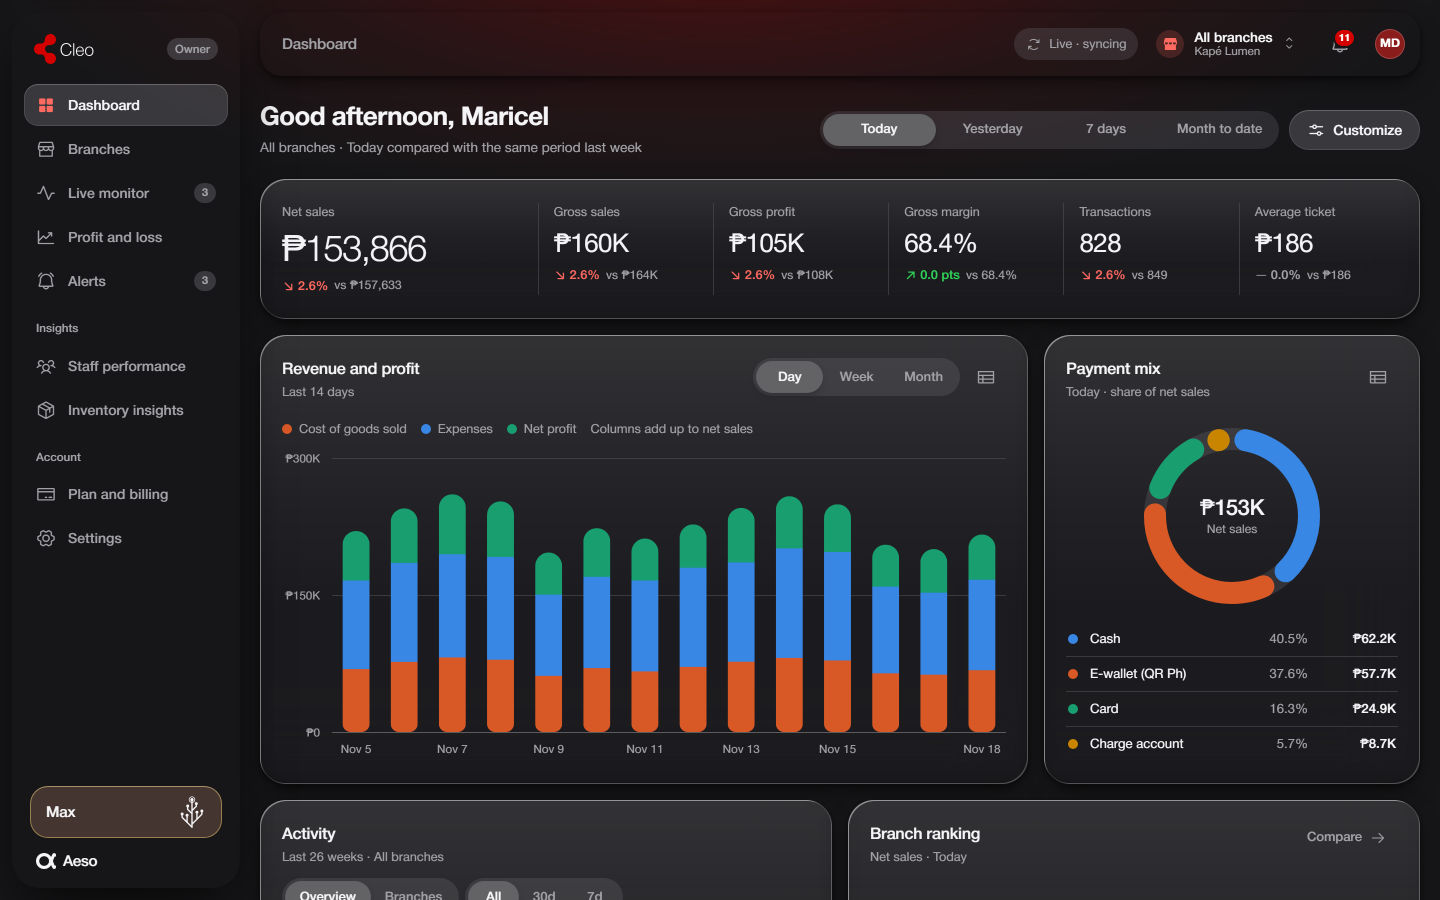
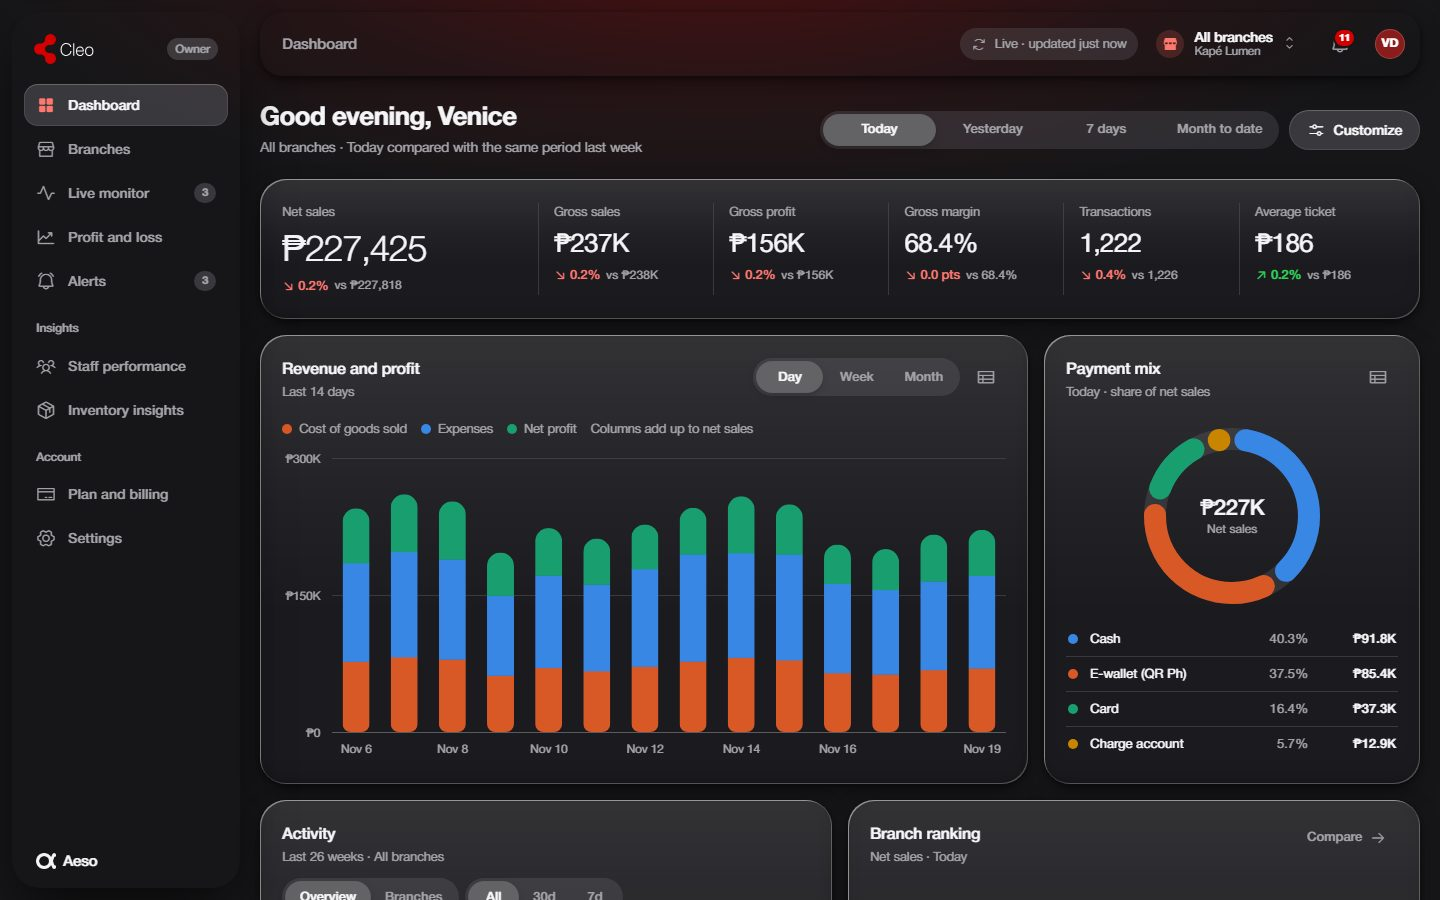
Demo: the owner is Venice Dizon
Owner request: rename the demo owner from Maricel Dizon to Venice Dizon
(initials VD, venice@kapelumen.ph): the owner profile, an expense entry,
the audit log, the card on file, alert recipients and the README's demo
note. The landing's Owner Dashboard screenshots are re-captured (light
and dark, 1440x900) and its payment-mix card matches the new screen.

diff --git a/index.html b/index.html
@@ -3014,7 +3014,7 @@ const CleoEnv = (() => {
    ===================================================================== */
 const CleoDemoConfig = {
   business: { name: 'Kapé Lumen', legal: 'Kapé Lumen Food Corp.', tin: '010-482-337-000', style: 'Café and coffee roaster', receiptHeader: 'Welcome to Kapé Lumen', website: 'kapelumen.ph' },
-  notify: { recipients: 'maricel@kapelumen.ph' },
+  notify: { recipients: 'venice@kapelumen.ph' },
 };
 
 ;
@@ -6103,7 +6103,7 @@ const Charts = (() => {
   ];
 
   const people = {
-    owner: { name: 'Maricel Dizon', initials: 'MD', role: 'Owner', email: 'maricel@kapelumen.ph', color: '#8a1c1c' },
+    owner: { name: 'Venice Dizon', initials: 'VD', role: 'Owner', email: 'venice@kapelumen.ph', color: '#8a1c1c' },
     hq: { name: 'Paolo Villanueva', initials: 'PV', role: 'HQ Manager', email: 'paolo.v@kapelumen.ph', color: '#3b4a7a' },
     accountant: { name: 'Grace Tan', initials: 'GT', role: 'Accountant', email: 'grace.tan@kapelumen.ph', color: '#2f6a55' },
     clerk: { name: 'Ramon Aquino', initials: 'RA', role: 'Inventory Clerk', email: 'ramon.a@kapelumen.ph', color: '#7a5a1e' },
@@ -6275,7 +6275,7 @@ const Charts = (() => {
     ['2026-10-01', 'mag', 'rent', 'Maginhawa, October', 72000, 'bank', true, 'Grace Tan'], ['2026-10-01', 'ceb', 'rent', 'i2 Building, October', 94000, 'bank', true, 'Grace Tan'],
     ['2026-09-30', 'ceb', 'misc', 'Aircon cleaning', 1850, 'drawer', false, 'Nico Ramos'], ['2026-09-30', 'bgc', 'sal', 'Payroll, Sep 16 to 30', 142300, 'bank', true, 'Grace Tan'],
     ['2026-09-30', 'sal', 'sal', 'Payroll, Sep 16 to 30', 118600, 'bank', true, 'Grace Tan'], ['2026-09-29', 'mag', 'util', 'Maynilad, September', 2940, 'bank', true, 'Grace Tan'],
-    ['2026-09-28', 'bgc', 'mkt', 'Instagram ads, week 39', 3500, 'bank', true, 'Maricel Dizon'], ['2026-09-27', 'sal', 'sup', 'Cleaning supplies', 980, 'drawer', true, 'Rhea Mendoza'],
+    ['2026-09-28', 'bgc', 'mkt', 'Instagram ads, week 39', 3500, 'bank', true, 'Venice Dizon'], ['2026-09-27', 'sal', 'sup', 'Cleaning supplies', 980, 'drawer', true, 'Rhea Mendoza'],
   ].map(([date, b, cat, what, amount, paid, receipt, by], i) => ({ id: `ex${String(i + 1).padStart(3, '0')}`, date, b, cat, what, amount, paid, receipt, by }));
 
   /* ---------- promos (POS-03, BR-03) ---------- */
@@ -6360,7 +6360,7 @@ const Charts = (() => {
     { t: '12:30 PM', who: 'Grace Tan', role: 'Accountant', type: 'export', act: 'Exported sales journal', ent: 'September 2026 · all branches', before: '', after: 'CSV, 31 days', dev: 'Back Office · 49.145.2.88' },
     { t: '11:46 AM', who: 'Paolo Villanueva', role: 'HQ Manager', type: 'settings', act: 'Changed void approval limit', ent: 'Exception rules', before: '₱1,500.00', after: '₱1,000.00', dev: 'Back Office · 112.198.84.20' },
     { t: '11:02 AM', who: 'Rhea Mendoza', role: 'Cashier', type: 'refund', act: 'Refund to original method', ent: 'INV 00009812 · Salcedo T1', before: '₱320.00 GCash', after: 'Refunded via gateway', dev: 'Salcedo T1 · approved by Kristine Ocampo' },
-    { t: '10:15 AM', who: 'Maricel Dizon', role: 'Owner', type: 'users', act: 'Added user', ent: 'Andrea Uy', before: '', after: 'Cashier at Cebu IT Park', dev: 'Owner app · Android' },
+    { t: '10:15 AM', who: 'Venice Dizon', role: 'Owner', type: 'users', act: 'Added user', ent: 'Andrea Uy', before: '', after: 'Cashier at Cebu IT Park', dev: 'Owner app · Android' },
     { t: '9:41 AM', who: 'Bea Villareal', role: 'Cashier', type: 'signin', act: 'Failed PIN attempts', ent: 'Maginhawa T1', before: '', after: '3 attempts, locked 5 minutes', dev: 'Maginhawa T1' },
     { t: '9:02 AM', who: 'Paolo Villanueva', role: 'HQ Manager', type: 'price', act: 'Branch price override', ent: 'Beef Tapa Rice Bowl · Cebu IT Park', before: '₱260.00 (HQ)', after: '₱245.00', dev: 'Back Office · 112.198.84.20' },
     { t: '8:30 AM', who: 'Liezl Cabrera', role: 'Branch Manager', type: 'stock', act: 'Received delivery', ent: 'PO-2291 · Bukidnon Highland Coffee', before: '3.3 kg', after: '7.2 kg Arabica', dev: 'Cebu T1' },
@@ -6920,7 +6920,7 @@ const Charts = (() => {
       const saved = store.get('plan', 'max'); const id = { starter: 'basic', growth: 'pro' }[saved] || saved;
       return Cleo.plans.get(id) ? id : (Cleo.plans.get('pro') || Cleo.plans.list()[0]).id;
     },
-    billingMethod() { return store.get('billing-method', { kind: 'card', label: 'Visa ending 4417', sub: 'Expires 08/28 · Maricel Dizon' }); },
+    billingMethod() { return store.get('billing-method', { kind: 'card', label: 'Visa ending 4417', sub: 'Expires 08/28 · Venice Dizon' }); },
     invoices() { return F.invoices; },
     async linkWallet({ kind, mobile }) {
       await latency(2200);

diff --git a/landing.html b/landing.html
@@ -836,9 +836,9 @@ main { overflow-x: clip; }
      <span class="note">Today · all branches</span>
      <h3>Payment mix</h3>
      <div class="mix">
-      <div class="mix-row c-cash"><span>Cash</span><span>40.5%</span><i style="--w:40.5%"></i></div>
-      <div class="mix-row c-wallet"><span>E-wallet (QR Ph)</span><span>37.6%</span><i style="--w:37.6%"></i></div>
-      <div class="mix-row c-card"><span>Card</span><span>16.3%</span><i style="--w:16.3%"></i></div>
+      <div class="mix-row c-cash"><span>Cash</span><span>40.3%</span><i style="--w:40.3%"></i></div>
+      <div class="mix-row c-wallet"><span>E-wallet (QR Ph)</span><span>37.5%</span><i style="--w:37.5%"></i></div>
+      <div class="mix-row c-card"><span>Card</span><span>16.4%</span><i style="--w:16.4%"></i></div>
       <div class="mix-row c-acct"><span>Charge account</span><span>5.7%</span><i style="--w:5.7%"></i></div>
      </div>
     </div>

diff --git a/sw.js b/sw.js
@@ -9,7 +9,7 @@
    BACKEND: never cache API responses here; the terminal's offline sales
    queue belongs in IndexedDB, uploaded by the app when the connection returns.
    ===================================================================== */
-const CACHE = 'cleo-bb58695acc';
+const CACHE = 'cleo-0f16c00cf3';
 const FILES = [
   "landing.html",
   "index.html",

diff --git a/README.md b/README.md
@@ -58,7 +58,7 @@ Run `node source/build.js` to rebuild the app, landing, legal pages and offline 
   - While it runs, `serve.js` rebuilds both entry pages whenever `content/plans.md` is saved.
   - Some browsers also block fonts and icons when `index.html` is opened straight from disk.
 - Demo sign-in (open with `?demo`; every way in needs the Terms and Privacy Policy box ticked):
-  - Any email and password work. The demo team's owner and HQ manager emails, such as `maricel@kapelumen.ph`, ask for a 6-digit code. Any code passes except `000000`, which shows the error.
+  - Any email and password work. The demo team's owner and HQ manager emails, such as `venice@kapelumen.ph`, ask for a 6-digit code. Any code passes except `000000`, which shows the error.
   - Backup code `AAAAA-AAAAA` shows the "already used" error.
   - **Continue with Google** is simulated: sign-in returns the demo owner, and sign-up goes on to the business details. (Facebook sign-in was removed.)
   - **Create an account** takes a name, email and password, then a 6-digit email code (again, `000000` is the error example), then the business, then **Choose your plan** and the payment page. Signing up with one of the demo team's emails shows the "already has an account" error.
